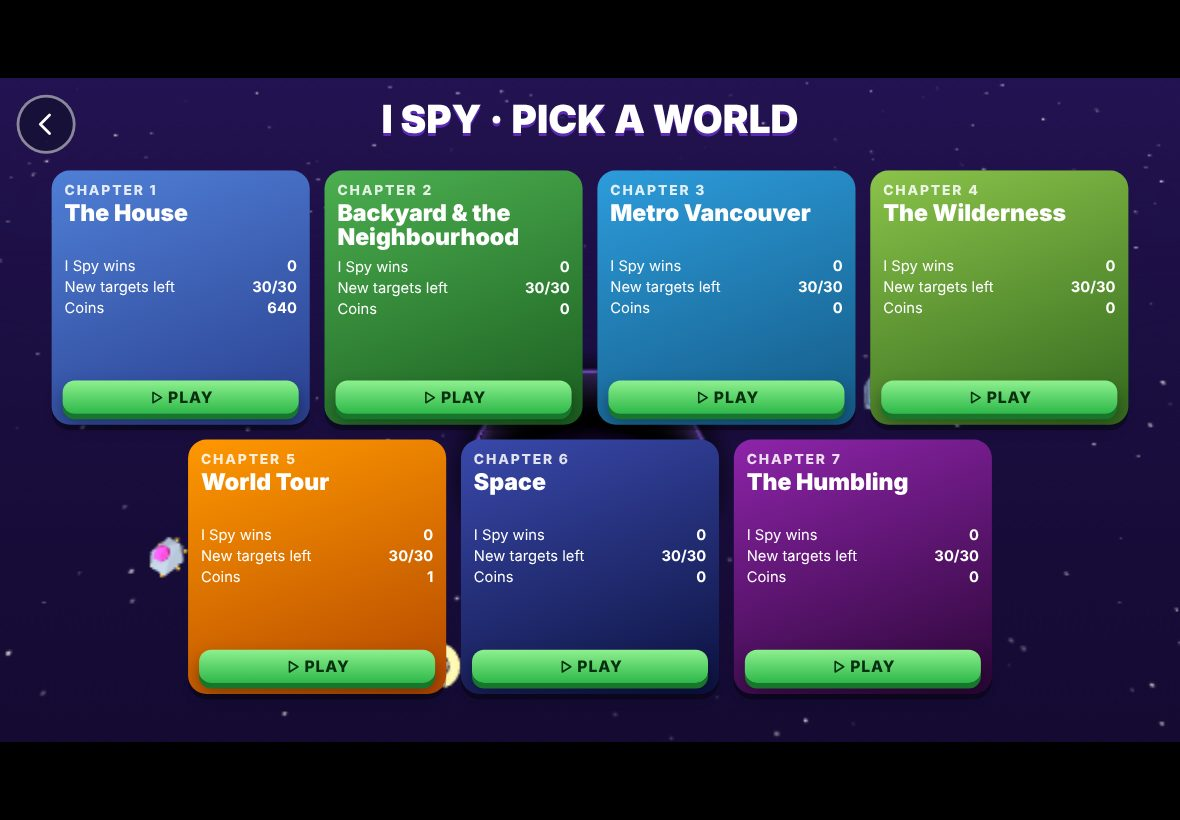
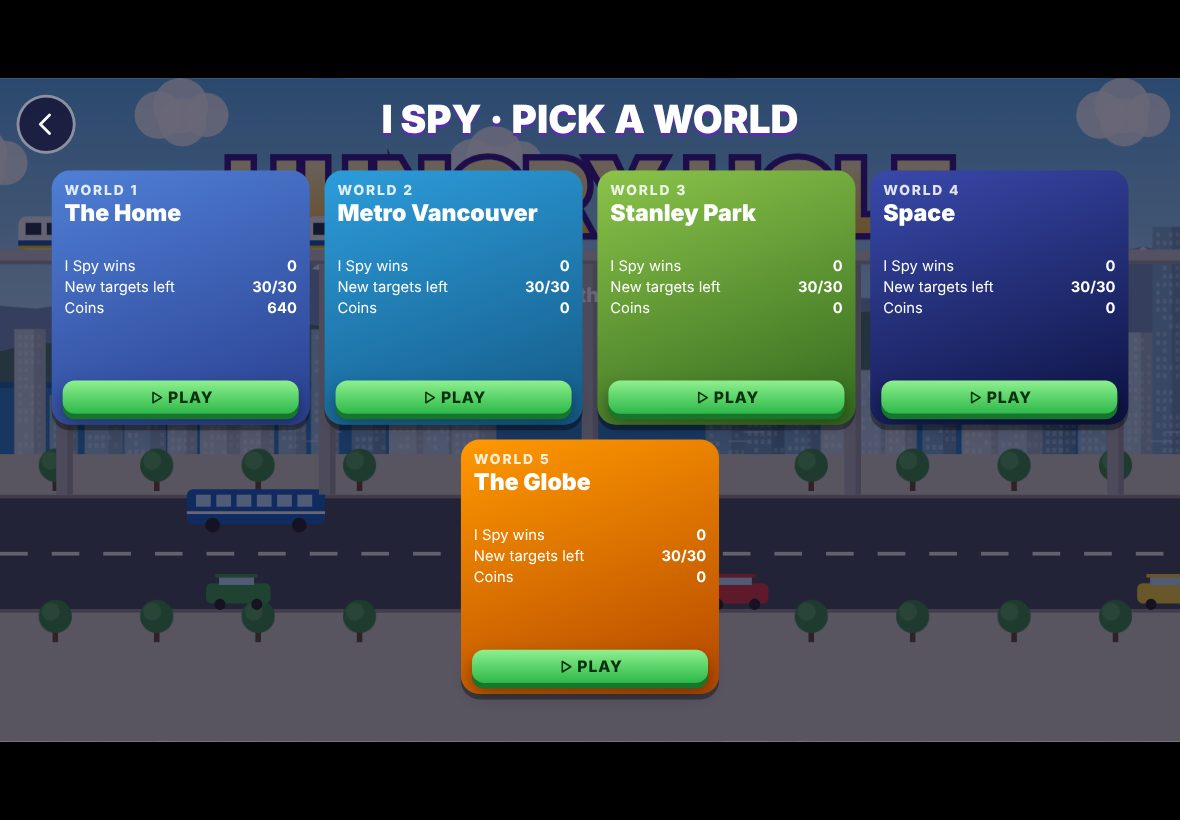
v5: Home pace fix (top size 5.2 m, respawn a room away, needP 1.13; finishes 9.4-11 min), DECISIONS v5 section (conflicts, saves, density per world, pace table, perf, co-op status), README, fresh screenshots for the five worlds
Claude-Session: https://claude.ai/code/session_01FDCb4TQbqwepy59uAaP9yA

diff --git a/index.html b/index.html
@@ -642,10 +642,10 @@ const CH = [null];
   // the zones a loose thing can be rolled in: a room's list, filtered by the placement constitution
   const okIn = (k, room) => { const a = ALLOW[k]; return !a || a === '*' || a.split(',').includes(CAT[room]); };
   CH.push({
-    n: 1, key: 'home', mus: 'ch1.mp3', name: 'The Home', short: 'Home', c1: '#4f7fd6', c2: '#2a3f8f', bgc: '#6aa84f', rim: '#9b6bff', metric: 1, layered: 1,
-    W, H, start: [5.3, 26.1 + OY], startFl: 1, edge: .15, cost: 1, need: 260, needP: 1.15, pv: 1.5, view: 13, xpk: 2, fill: .2, spd: 1.8,
+    n: 1, key: 'home', respawnR: 6, mus: 'ch1.mp3', name: 'The Home', short: 'Home', c1: '#4f7fd6', c2: '#2a3f8f', bgc: '#6aa84f', rim: '#9b6bff', metric: 1, layered: 1,
+    W, H, start: [5.3, 26.1 + OY], startFl: 1, edge: .15, cost: 1, need: 260, needP: 1.13, pv: 1.5, view: 13, xpk: 2, fill: .2, spd: 1.8,
     walls3d: { floors: [WALLS[0], WALLS[1]], h: 2.4, cut: 1 },
-    sizes: [0, 0.045, 0.08, 0.14, 0.24, 0.42, 0.7, 1.15, 1.9, 3, 4.6],
+    sizes: [0, 0.045, 0.08, 0.14, 0.24, 0.42, 0.7, 1.15, 1.9, 3, 5.2],
     types: T0,
     zones: Object.assign(Object.fromEntries(Object.entries(ROOM_T).map(([k, t]) => [k, { d: RM[k][7] ? .6 : 1, t, at: atRoom, out: RM[k][7] ? 1 : 0 }])), {
       xlane: { d: .3, deco: 1, coin: 0, t: 'xbush:2,xflower:2,xtree', at: atOut },
@@ -2519,7 +2519,7 @@ function gather(x0, y0, x1, y1, z) {
     const b = o.pb || (o.pb = pathBox(o));
     if (C.wrap || (b[2] >= x0 - P && b[0] <= x1 + P && b[3] >= y0 - P && b[1] <= y1 + P)) out.push(o);
   }
-  const rD = holeD() * 4;
+  const rD = Math.min(holeD() * 4, G.C.respawnR || 1e12);     // (the Home is small: things come back once you're a room away, so a big hole never starves)
   for (const t of activeLayers(z)) {
     const cs = C.LC[t], hp = C.sizes[t] * 0.5;
     for (let cy = Math.floor((y0 - hp) / cs); cy <= Math.floor((y1 + hp) / cs); cy++)

diff --git a/docs/DECISIONS.md b/docs/DECISIONS.md
@@ -410,3 +410,226 @@ The v4 addendum in `docs/SPEC.md` is the authority. These are the calls the spec
 
 ## HUD UPGRADES button
 The round up-arrow became an orange (#ff8c1a) pill that reads UPGRADES. Its behaviour is the same: pause, open Upgrades, and BACK resumes the exact run (the behaviour test checks the colour, the label, and that position and size are kept). Screenshot: `docs/screenshots/42-hud-upgrades-button.jpg`.
+
+# v5 — THE WORLDS REDO (builder decisions, 2026-10-31)
+
+Branch `claude/hungry-hole-v5`. Zero named this branch in the v5 prompt, which overrides the session's default branch name (`claude/project-thread-tltki1`). Nothing is merged and no PR is open: GitHub Pages serves `main`, so merging is publishing, and that is Kakashi's call.
+
+## Where the prompt and the spec differ (the spec's latest ruling wins)
+- **Educational and the objective ladder.** The prompt says "Educational ignores gating"; spec v5.0 says Educational targets come as an ordered ladder with the growth cap. These do not clash once "gating" is read as the zone rings (v4.7). So in Educational the whole map is open (no rings), and each lesson step is a rung: the set starts pre-sized for step 1 (v4.9), and the hole is capped at the current step's target. Math tiles never glow; sequence tiles do.
+- **Music v2 (spec v5.13).** The spec puts orchestrated music "in scope" as same-name drop-in files. The prompt says the 13 audio files and `audio/manifest.js` stay exactly as they are. Nothing in code needs to change for the drop-in, so this build does not touch, generate or rename any audio. When the owner drops in new files with the same names, they play.
+- **Roster.** Spec v5.13 is final: five worlds. Wilderness and Chaos are retired, not parked. Old Backyard (old Ch2) was already folded into the Home. Saves keep the retired worlds' data aside (see Saves).
+
+## H. Exactly five worlds
+- **The worlds:** 1 The Home · 2 Metro Vancouver · 3 Stanley Park · 4 Space · 5 The Globe. "WORLDS" is the word used everywhere in the UI.
+- **Old code removed:** Backyard, Wilderness and Chaos are gone from the UI, from data and from the models. Model recipes are now keyed per world (`MODEL.PER['key:type']`), so one world's look never leaks into another.
+- **Music per world:** the files are unchanged, so each world reuses the old track that fits it best.
+  - Home: `ch1.mp3`
+  - Vancouver: `ch3.mp3` (old Vancouver)
+  - Stanley Park: `ch4.mp3`
+  - Space: `ch6.mp3`
+  - Globe: `ch5.mp3`
+  - `ch2.mp3` and `ch7.mp3` are not used. Their files stay listed in the manifest, untouched.
+
+## Saves (ground rule: `hungry-hole-data-v1` never changes)
+- **One-time migration** (`migrate5`) for any save without `w5`:
+  - Home ← old 1
+  - Vancouver ← old 3
+  - Stanley Park is new
+  - Space ← old 6
+  - Globe ← old 5
+- **Retired worlds:** the save data of old 2, 4 and 7 is copied verbatim into `S.retired` and ignored. Nothing else is touched.
+- **Kept per world:** wallets, upgrades, quest boards, checklist counts, completions, passport and learning totals.
+- **Eaten landmarks:** kept for Vancouver, whose map is unchanged. For Home, Space and the Globe the maps are new, so their old ids would mean different things. Those are parked as `eaten4` and the world starts fresh.
+- **Stanley Park unlock:** it opens if old Vancouver was complete, because finishing Vancouver used to open the next chapter.
+- **Shared origin:** the game only ever reads and writes its own key. It never enumerates storage and never clears it. "Reset everything" rewrites only `hungry-hole-data-v1`.
+- **Test:** `tests/behaviour.js` "v4 save with RETIRED-world data" builds a seven-chapter v4 save that carries progress, wallets, I Spy decks and Educational sets in worlds 4 and 7. It checks:
+  - all of that sits verbatim in `S.retired`
+  - every kept world's wallet, upgrades, board, completion and eaten landmarks are intact
+  - all five worlds play
+  - nothing changes after a reload
+  - another app's key on the same origin is untouched
+- The v2 and v3 save tests were updated to the five-world mapping and still pass.
+
+## A1–A2. Objective ladder, rings, modes
+- **Story:** every world's tasks are its size-gate beats (8–12 per world). The hole is capped at the next objective (fit size × 1.04), with a friendly message: "You're not growing anymore until you get X. Complete your objective to grow more!" Eating the objective lifts the cap. The checklist is a bonus and never completes a world.
+- **Rings:** one nested playable rect per beat, so the border grows as the ladder climbs.
+- **I Spy:** plays inside the ring that holds the current target.
+- **Educational:** the whole map is open.
+- **Exploration:** any world, the whole map, free size with + / −, no objectives. It pays no coins, so it can't be used to farm wallets.
+- **Restart:** restarting a world replays the ladder from the first objective (beat and eaten list reset). The checklist, board and wallet are kept.
+
+## A3. Density: "classy, not carpeted"
+- **Filler:** loose filler is `FILL_K` (0.3 of v3) × a per-world `fill`. Placed things (buildings along roads, trees in forests, authored landmarks) are exempt through `fillKeep`.
+- **Per-world filler factors** (share of the v3 scatter):
+
+  | World | Filler share | Kept dense |
+  | --- | --- | --- |
+  | Home | 0.06 | — |
+  | Vancouver | 0.09 | street trees, forests and buildings stay dense |
+  | Stanley Park | 0.03 | the forest trees stay dense |
+  | Space | 0.30 | — |
+  | Globe | 0.075 | — |
+
+  Every world is cut by at least 70%; most by 90% or more. Vancouver's trees stay dense, as the owner asked.
+- **Type→room whitelist:** the Home has an explicit `ALLOW` map, enforced in `tests/data.js`. Every zone list and every authored object must pass `C.okIn`. The test caught a hat listed in a bedroom, so hats are now allowed in closets, halls and bedrooms.
+- **Cars:** only on roads (lane-snapped). Parked cars sit at curbs, driveways and lots.
+- **People:** on sidewalks.
+- **The Globe's town:** cars, houses and trees snap to a street grid. The data test checks that every town vehicle is on it.
+- **Street furniture:**
+  - `crossingsOf()` finds real X crossings and T junctions between different roads in the OSM road data (angle > 20°, deduped within 9 m).
+  - `furnishCrossing()` puts 4 streetlights at the corners of each crossing, a stop sign at 1 in 3 crossings and a bin at 1 in 5.
+  - This runs in Vancouver and Stanley Park's city streets, and streams with the lamp layer.
+  - The old random lamp scatter was removed from Vancouver zones. Stanley Park's OSM lamps within 16 m of a crossing are skipped so corners aren't doubled.
+  - The Globe has no streetlights, per the spec.
+- **Eats per size step (honest numbers):** the bot reports the average eats per size step:
+
+  | World | Average eats per size step |
+  | --- | --- |
+  | Home | about 23 |
+  | Space | about 45 |
+  | Stanley Park | about 70 |
+  | Globe | about 76 |
+  | Vancouver | about 255 |
+
+  These are far above "about 4". The reason is that the bot keeps eating while it travels and while it is capped at an objective, and those eats are counted against the step. Size-worthy eats (things at most one size below you) are lower:
+
+  | World | Size-worthy eats per step |
+  | --- | --- |
+  | Space | 9 |
+  | Home | 15 |
+  | Stanley Park | 32 |
+  | Globe | 65 |
+  | Vancouver | 95 |
+
+  XP per eat was raised (per-world `xpk` 2–3) and filler cut hard. The pace bot (8–15 min) is the guardrail that was tuned to, and every world is inside it. Getting to a literal ~4 meaningful eats per step would mean hiding most edible things on the travel legs. That would make the worlds feel empty, so I stopped at "classy" and left this for Kakashi to judge in play.
+
+## A4. Movement and idle life
+- **Movers:** cars, buses, boats, SkyTrain, animals, ships, whales and the rest stay in their zone. Off-stream movers are paused, they stay edible, and they never flee.
+- **Idle life:**
+  - `sway` on plants and trees
+  - butterflies flutter (Home, Stanley Park)
+  - sunlight glints twinkle on open water in every world (`waterGlints`)
+  - carousels, desk globes and planets turn (`SPIN`)
+  - the nursery mobile turns and the rocking horse rocks
+  - clouds drift
+- **Terrain:** textured ground with relief. Mountains block until they are edible.
+- **Labels:** only on active targets (`labelOn`).
+
+## A5. Targeting
+- **Targets:** the help arrow is always on. Every target gets a beacon pillar and a label at any zoom. Targets self-heal: a missing one is re-placed inside the current ring.
+- **I Spy:**
+  - a 30-item pool per world, dealt from a saved shuffle-bag, 5 per run
+  - each hand is sorted into a size ladder, smallest first
+  - a fresh run starts at starting size with the world's upgrades
+- **Educational:** all worlds are unlocked and every set is pre-sized. The Globe starts lessons city-sized (`eduMin` 25), because the planet is big. Grade 2/3, Learning Full/Sometimes/Off and "How big am I?" are unchanged.
+
+## A6. Minimap
+- **Placement:** bottom-left in every world; the Globe keeps a globe look (an orthographic mini-globe that names the country you're over).
+- **Markers:** the hole is a pulsing dot, targets are stars, the partner is a dot (the hook is ready for co-op).
+- **Big map:** tapping the minimap opens it, and it cycles 100 / 50 / 25%. The zoomed views follow the hole.
+- **Steering:** a minimap touch never steers.
+
+## A7. Walls
+- **Walls are absolute.** Collision radius is capped, so a big hole still fits through doorways and up stairs. The new behaviour test pushes the biggest hole at 8 walls from both sides; it never crosses.
+- **Open-top dollhouse:** walls fade between the camera and the hole. X-ray is visual only.
+- **Flat things you sit on** (the picnic blanket, rugs, the Moon's face) are drawn cut away over the open hole and laid flat, so they never cover it. Before this fix, Space's Apollo start hid the hole under the Moon.
+
+## B. Title and modes
+- **Title:** a living Vancouver title scene: SkyTrain on its guideway, buses, cars, clouds, the hole at a crosswalk.
+- **Mode strip:** a cream strip with STORY / I SPY / EDUCATIONAL / EXPLORATION, and a small SETTINGS gear.
+- **Removed:** there are no Upgrades or Chapters menu buttons. Upgrades open from the in-game HUD (orange UPGRADES), and boards from the Story world pick.
+- **World pick:** every mode opens one. `tests/ui-flow.js` checks the strip, the four pickers and that the old buttons are gone.
+
+## C. The Home
+- **Layout:** transcribed from the owner's floorplan as layout only. No text from the image appears anywhere.
+- **Building:** two floors, with stairs as paths: you roll up the run and the floor changes at its middle. Also a deck, garage, side paths, front and back yards, and the alley.
+- **Pace:** the last objective (the family car, 4.6 m) was out of reach in a long bot run. Two causes:
+  - the top size step ended exactly at the car's size, so you needed the whole last level
+  - a big hole starves in a small house, because things only respawned out of sight (4 hole-widths)
+- **Fix:** top size 5.2 m, `needP` 1.13, and `respawnR` 6 m in the Home, so things come back once you're a room away. Three bot seeds now finish in 9.4–11.0 min.
+
+## D. Metro Vancouver
+New: SkyTrain guideway, pillars and stations; blue buses; street trees; forests; the Grouse trail; snow on Cypress and Whistler; intersection streetlights; the objective ladder (Steam Clock → … → Whistler).
+
+## E. Stanley Park
+- **Map:** a real OSM bake inside the owner's red-line boundary.
+- **Start:** a picnic blanket on Ceperley Meadow, at ant scale. The ladder runs from the picnic sandwich to Deadman's Island.
+- **Landmarks:** an enterable Aquarium (an open-top hall with front doors), Brockton and Prospect Point lighthouses, the Hollow Tree, Siwash Rock, the Girl in a Wetsuit and more.
+- **Rules:** water is never food. Totem poles are scenery only.
+
+## F. Space
+- **Start:** at the Apollo landing site. The Moon's surface is a zoomed-in stage, a deliberate scale break: the Moon you finally swallow is 15 units across, but its face where you start is far bigger. Earth starts orbiting only after the Moon.
+- **Contents:** orbiting planets, real moons, dwarf planets, the Oort cloud and Planet Nine.
+
+## G. The Globe
+- **Map data:** a true-scale equirectangular map baked from Natural Earth (public domain) by `tools/bake-globe.py`. It holds land, lakes, country outlines, rivers as lines (the Nile is named), major highways as lines and cities.
+- **Map scale:** 400 world units per degree. Growth is compressed (13 sizes from 4 cm to 950 km in game metres), so one world can go from a house to Everest.
+- **Start:** small-house size on a Kitsilano street with looping traffic. Kitsilano was chosen to sit well away from the owner's own corner, which never appears or is singled out.
+- **Speed:**
+  - The speed upgrade counts double here (`upSpd` 2).
+  - Water travel is faster.
+  - I Spy and Educational move 5× faster (`runSpd`), because their targets are continents apart.
+- **Highways:** while you're small, cars drive the nearest real highway (a pool of 18, reassigned as you move). From far out, highways show as flowing light. There are no streetlights.
+- **Landmarks:** about 400, in `data/globe-landmarks.js`, with every country covered (≥150 is checked in the data test).
+  - CN, RU, CA and the US have 10 or more each; big countries have 4–5.
+  - All New 7 Wonders and Giza are in, plus the named ones: Tokyo Tower, Skytree, the Shard, Buckingham Palace, the Louvre and Tower Bridge.
+  - Every country has a capital marker where no landmark is near.
+  - Holy sites where non-believers can't go (the Kaaba and similar) are deliberately left out.
+- **Theme parks:** 24, at the real locations of major parks, drawn in our own art and unnamed. The data test checks they are unnamed.
+- **Oceans:** ships, whales, orcas and sharks (no salmon).
+- **Finale:** the ladder runs Kits Pool → … → Everest. Eating Everest rolls the credits and pays +5,000 coins the first time.
+
+## I. Co-op: NOT SHIPPED (reported plainly)
+Two-device co-op over WebRTC with a room code and no servers of our own was not built in this pass, and I would not call it reliable if it were. Reasons:
+- **Signalling:** WebRTC needs a signalling exchange before the two iPads can talk. With no server of our own, that means either a third-party public broker (PeerJS cloud or similar), whose uptime we don't control and which sends play data to someone else, or copying a ~2 KB offer/answer blob between iPads by hand, which kids can't do.
+- **iPad networking:** iOS Safari hides local addresses behind mDNS candidates, so same-Wi-Fi connections fail on some routers without a TURN relay, and a TURN relay is a server.
+- **Testing:** two real iPads can't be exercised from this container, so "works" could not be verified.
+
+What is ready: the partner dot on the minimap and the mini-globe (`G.mate`) and a shared-ladder-friendly run model (I Spy and Educational hands are already data). The decision Kakashi or the owner needs to make is whether a third-party signalling broker is acceptable.
+
+## Performance (iPad levers)
+- **iPad levers:**
+  - streaming radius: cells generate only around the camera
+  - off-stream movers paused
+  - every visible object merged into one dynamic mesh per material each frame
+  - highways and rivers drawn as lines on the ground texture
+- **Two stalls found and fixed in this pass:**
+  - The ground canvas was GPU-backed. Painting thousands of OSM paths into it and uploading stalled Stanley Park's West End to about 1 fps in headless Chromium. It is now a CPU canvas (`willReadFrequently`), and that spot runs at about 24–31 fps.
+  - The camera crawled through extreme zooms after a big size jump (a world or mode switch, or a big +/−), re-texturing at each step. It now snaps when it is more than 3× off target.
+- **`tests/perf.js`** probes the three heaviest spots:
+
+  | Spot | fps |
+  | --- | --- |
+  | Vancouver downtown | 17–21 |
+  | Stanley Park West End | 24.5 |
+  | Globe street start | 18–22 |
+
+  These are in GPU-less headless Chromium (SwiftShader), in line with v4's 17–20. The 50 fps target can't be measured without a GPU; it needs checking on a real iPad.
+
+## Results per section (tests at hand-off)
+| Section | Result |
+| --- | --- |
+| A1–A2 ladder, rings | behaviour test "objective ladder" (cap holds at the next objective; last objective completes the world, unlocks the next, MAIN MENU returns) |
+| A3 density | data test whitelist PASS ×5; Globe street-grid PASS; per-world factors above |
+| A4 movement / idle life | movers in-zone and paused off-stream; water glints, spin, sway, butterflies |
+| A5 targeting | I Spy and Educational behaviour tests PASS; audio scripted runs PASS |
+| A6 minimap | screens `27-w5-big-map`, `28-w3-big-map` |
+| A7 walls | behaviour "walls are absolute" PASS (16/16 pushes held) |
+| B title / modes | ui-flow PASS (four modes, five worlds per picker, no old buttons) |
+| C–G worlds | reachability 100% in all five; pace bot in window in all five (table below) |
+| H five worlds | data PASS ×5; music per world PASS in audio test |
+| I co-op | not shipped (above) |
+| Saves | retired-world migration test PASS |
+| Audio | 8/8, Chromium launched with no autoplay bypass |
+
+### Pace bot (`node tests/balance-bot.js`, sim-minutes to finish the objective ladder; window 8–15)
+| World | Finish (sim-min) | Objectives eaten at (min) | Eats / size step (all, size-worthy) |
+| --- | --- | --- | --- |
+| W1 The Home | 11.0 / 9.8 / 9.4 (seeds 0 / 3 / 5) | e.g. 1.7 2.7 3.4 5.0 5.8 6.1 6.9 … | ~23, ~15 |
+| W2 Metro Vancouver | 8.7 | 2.41 3.04 4.24 4.37 5.59 6.72 7.73 8.63 8.72 8.75 | ~256, ~96 |
+| W3 Stanley Park | 8.5 | 0.13 0.24 0.59 3.95 6.01 7.16 7.96 8.40 8.47 8.53 | ~70, ~32 |
+| W4 Space | 8.2 | 0.12 0.28 0.36 0.45 0.96 3.92 6.69 7.66 8.18 | ~45, ~10 |
+| W5 The Globe | 9.6 | 0.37 0.97 1.15 1.33 2.33 4.87 6.05 7.81 8.70 9.04 9.40 9.62 | ~78, ~67 |
+
+All five worlds finish inside the 8–15 minute window. The game itself uses `Math.random`, so the same seed varies by about a minute between runs (one Home run at an interim tuning came in at 7.5, which is why Home was nudged to `needP` 1.13). Vancouver, Stanley Park and Space sit near the bottom of the window. A real child explores more than the bot, so they should land mid-window; tune `need` up per world if Kakashi finds them quick.

diff --git a/README.md b/README.md
@@ -1,10 +1,11 @@
 # Hungry Hole
 
-Family-only, not for sale. A LANDSCAPE browser game: drag a hole around huge places, eat things smaller than you, grow, finish chapter checklists and Tiny Quests, earn coins, buy per-chapter upgrades.
+Family-only, not for sale. A LANDSCAPE browser game: drag a hole around huge places, eat things smaller than you, grow, climb each world's objective ladder, finish Tiny Quests, earn coins, buy per-world upgrades.
 
 - **One public repo** — build and play here. Live: https://zerononeex.github.io/hungry-hole/ (`index.html` + the vendored `three.min.js` at the repo root; merging to `main` publishes).
-- **The journey:** 7 chapters — The House, Backyard & Neighbourhood, The City, The Wilderness, World Tour, Fictional Space, The Humbling — from one Lego brick to becoming a black hole.
+- **The worlds (v5):** five — The Home · Metro Vancouver · Stanley Park · Space · The Globe — from one Lego brick to swallowing Everest. Four modes on every world: STORY, I SPY, EDUCATIONAL, EXPLORATION.
 - **Spec:** `docs/SPEC.md` (v2, owner restructure applied). Builders: branch, build, Kakashi verifies BEFORE merge.
 - **v3 (3D):** Three.js r147 vendored as `three.min.js` (no CDN, works offline). Builder decisions in `docs/DECISIONS.md`. Tests: `python3 -m http.server 8765` at the root, then `node tests/{data,behaviour,audio,reachability,ui-flow,balance-bot,screens,perf}.js`.
 - **v4 (owner feedback batch):** true-scale Ch1–4 (metre table), Ch3 baked from OpenStreetMap data (`tools/bake-ch3.py` → `data/ch3-osm.js`, © OpenStreetMap contributors, ODbL), STORY / I SPY / EDUCATIONAL modes, audio slots in `audio/` (prompts in `docs/AUDIO_PROMPTS.md`). Decisions: `docs/DECISIONS.md` (v4 section).
 - **v4.1:** music plays through WebAudio (fixes silent music on iPhone; `HH.debugAudio()` reports what is playing), text-to-speech removed game-wide, and an orange UPGRADES button in the HUD. Notes: `docs/DECISIONS.md` (v4.1 section).
+- **v5 (the worlds redo):** five worlds (Wilderness and Chaos retired; old saves keep their data aside in `S.retired`), objective ladder with a growth cap in every mode, zone rings, minimap + big map, Exploration, a living Vancouver title. The Home from the owner's floorplan (layout only), Stanley Park from OpenStreetMap inside the owner's boundary (`tools/bake-stanley.py` → `data/stanley.js`), and the Globe on true-scale Natural Earth data (public domain; `tools/bake-globe.py` → `data/globe.js`, landmarks in `data/globe-landmarks.js`). Decisions, per-world density, pace table and the co-op status: `docs/DECISIONS.md` (v5 section). Screenshots: `docs/screenshots/`.
